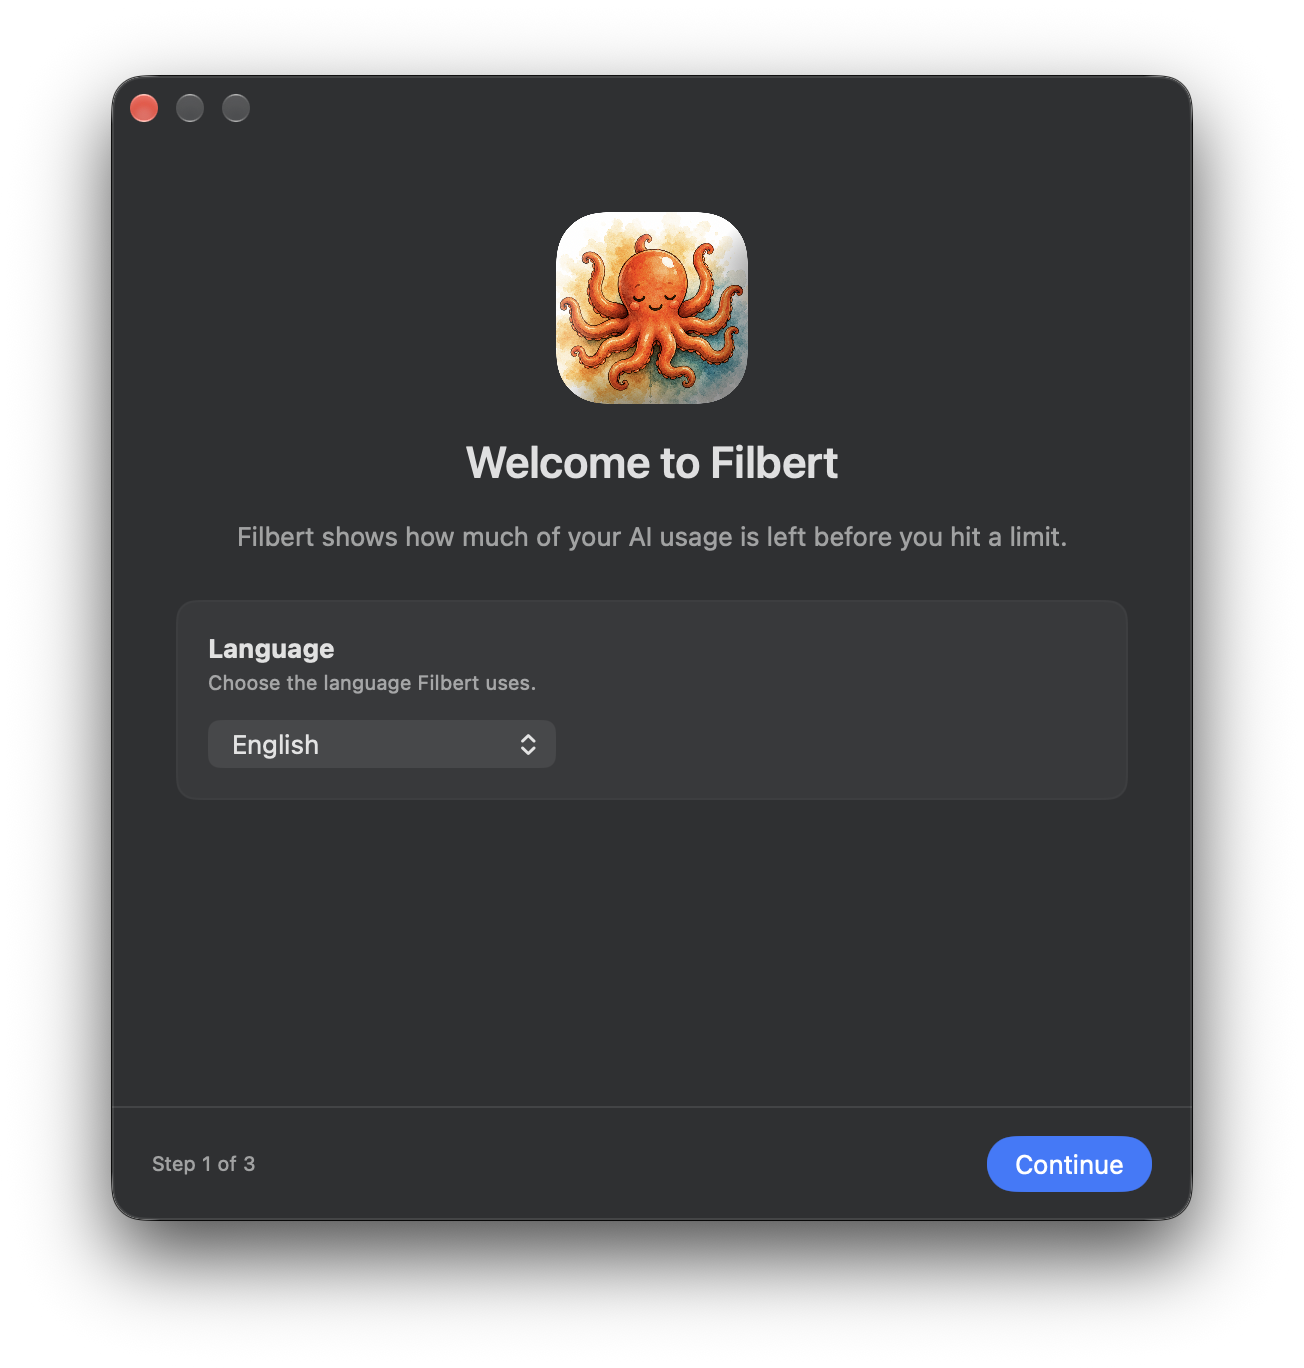
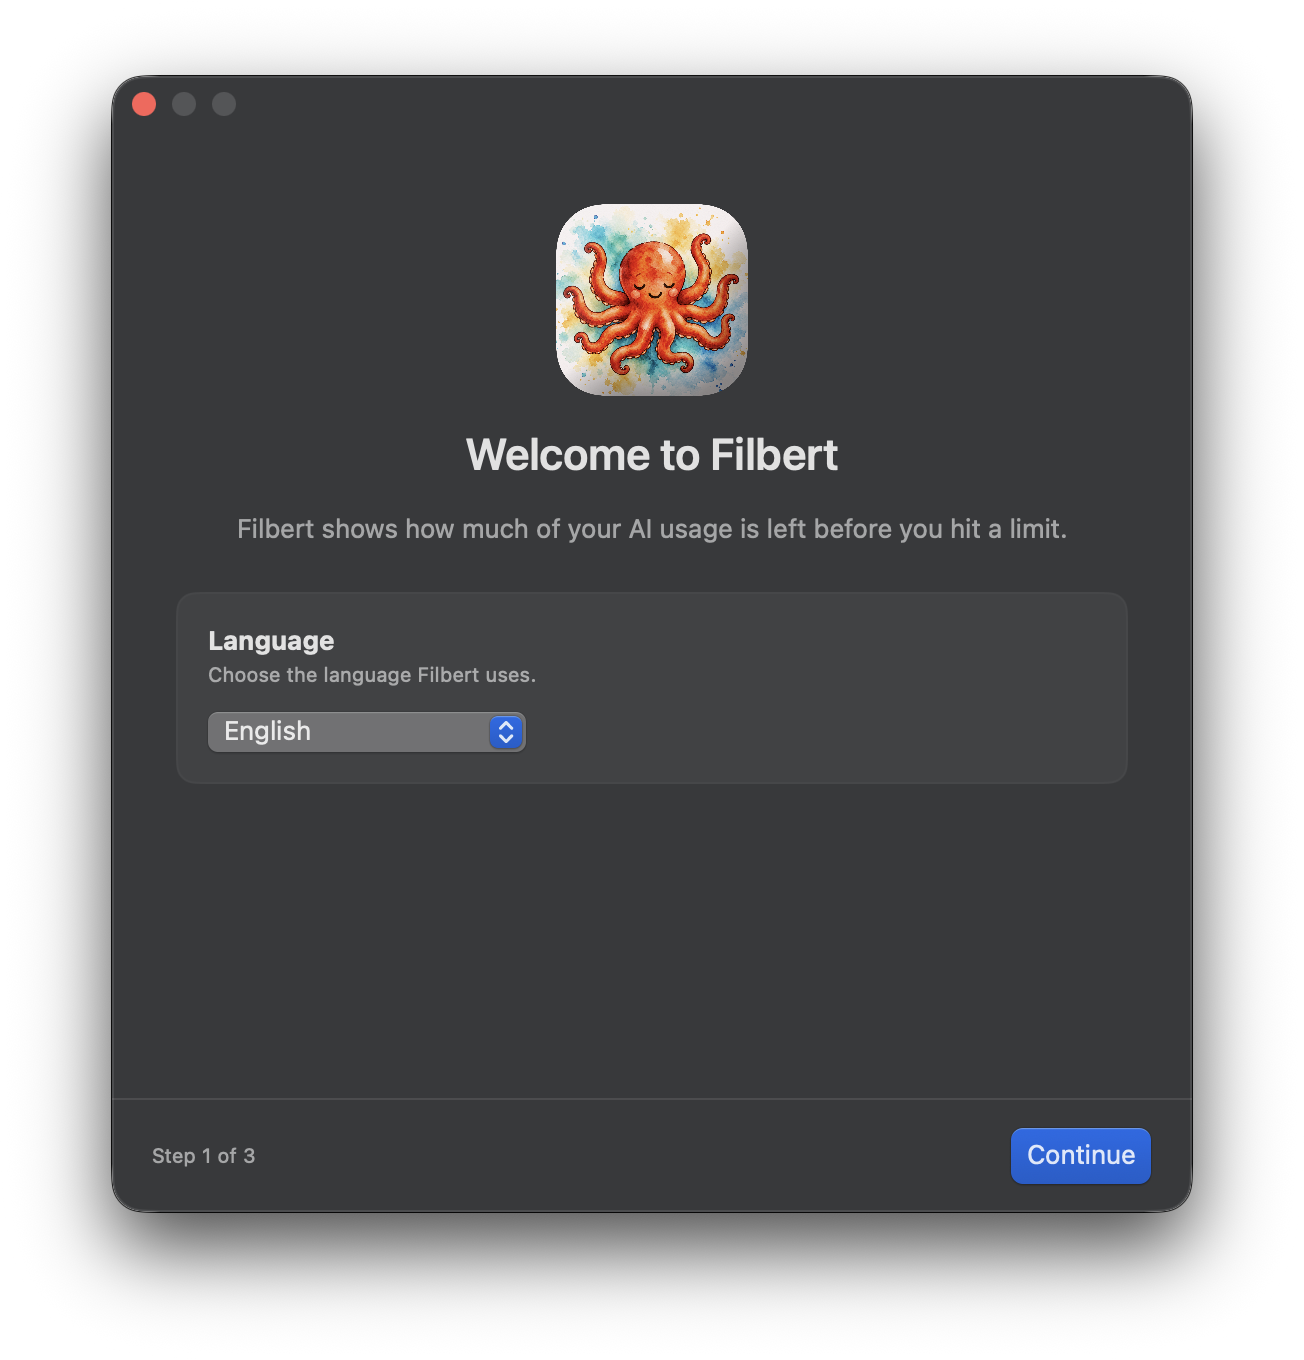
chore(site): refresh welcome screenshots

diff --git a/site/index.html b/site/index.html
@@ -166,7 +166,7 @@
         <figure class="welcome-shot">
           <picture>
             <source srcset="images/screenshots/welcome-dark.webp" media="(prefers-color-scheme: dark)">
-            <img src="images/screenshots/welcome.webp" width="652" height="684" loading="lazy" alt="The Filbert welcome window, step 1 of 3: choose the language Filbert uses">
+            <img src="images/screenshots/welcome.webp" width="652" height="680" loading="lazy" alt="The Filbert welcome window, step 1 of 3: choose the language Filbert uses">
           </picture>
         </figure>
         <ol class="steps">
